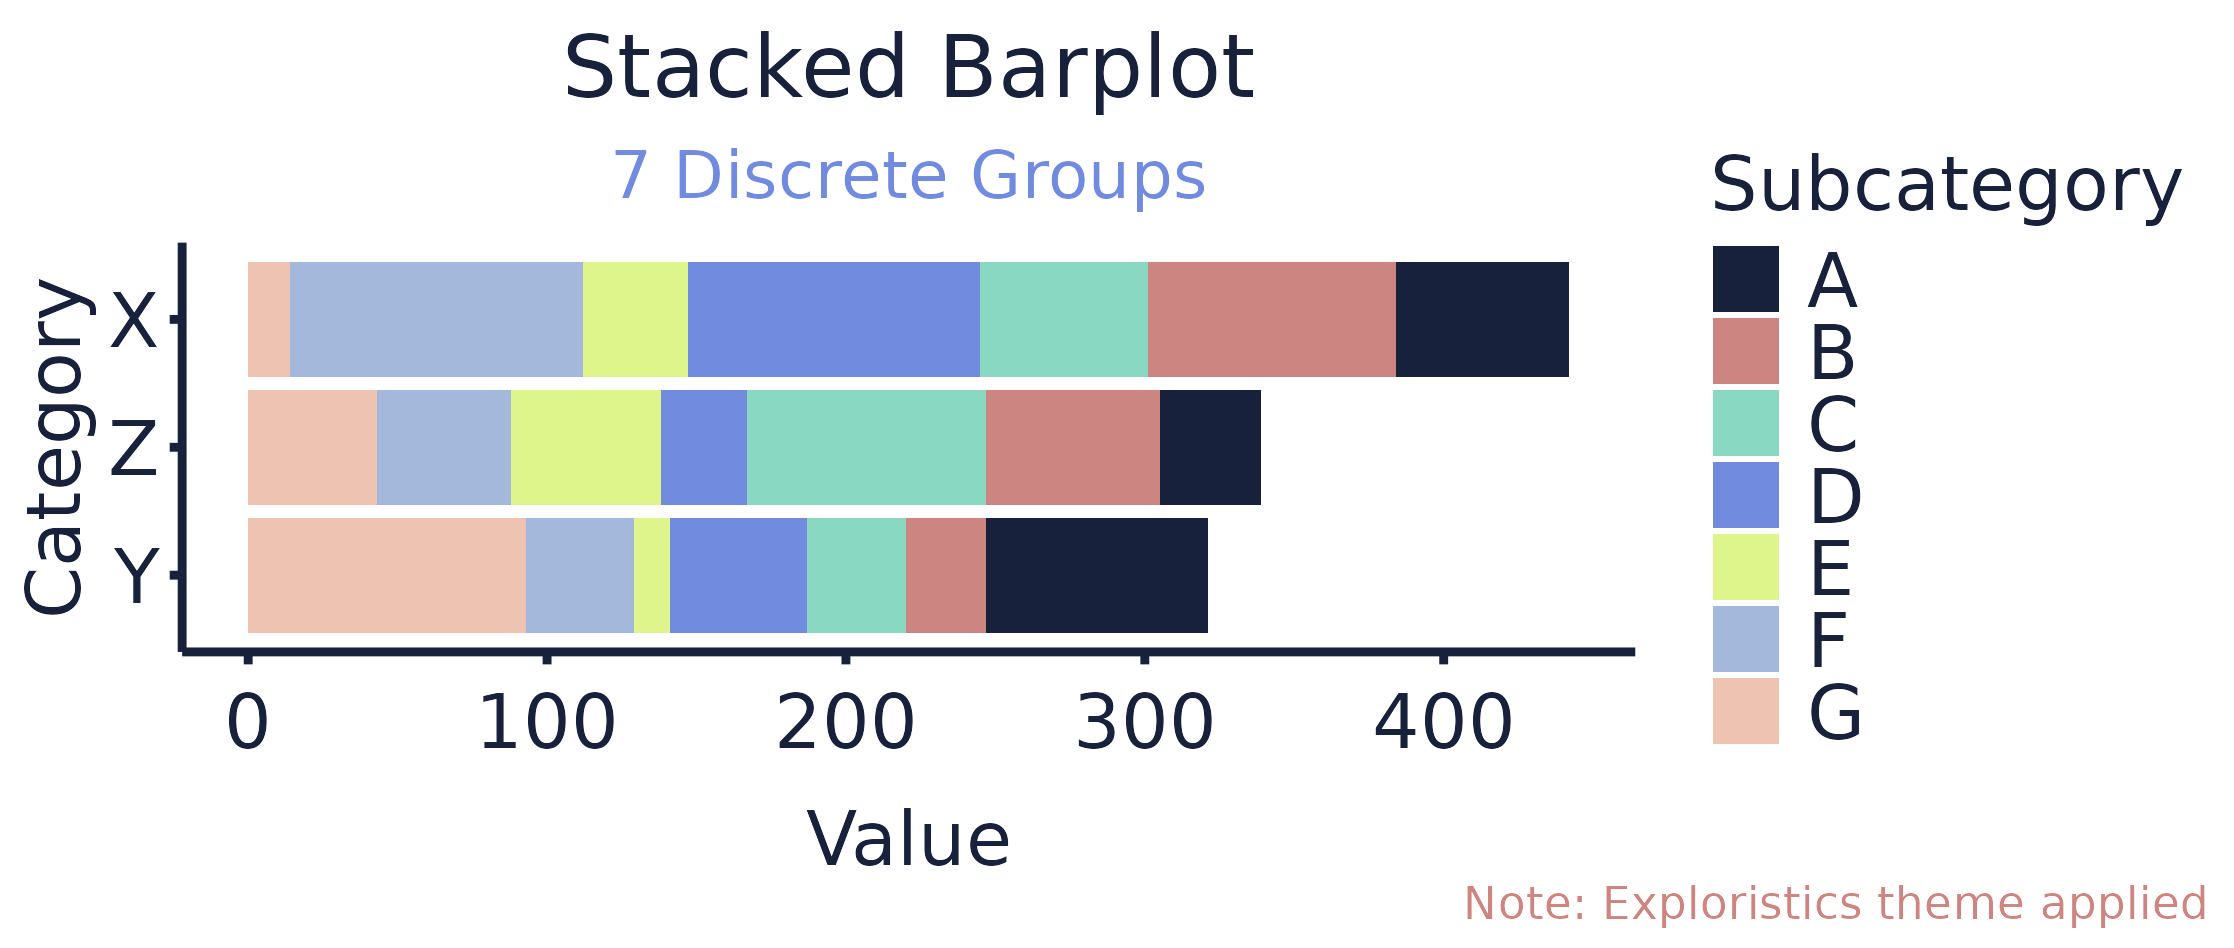
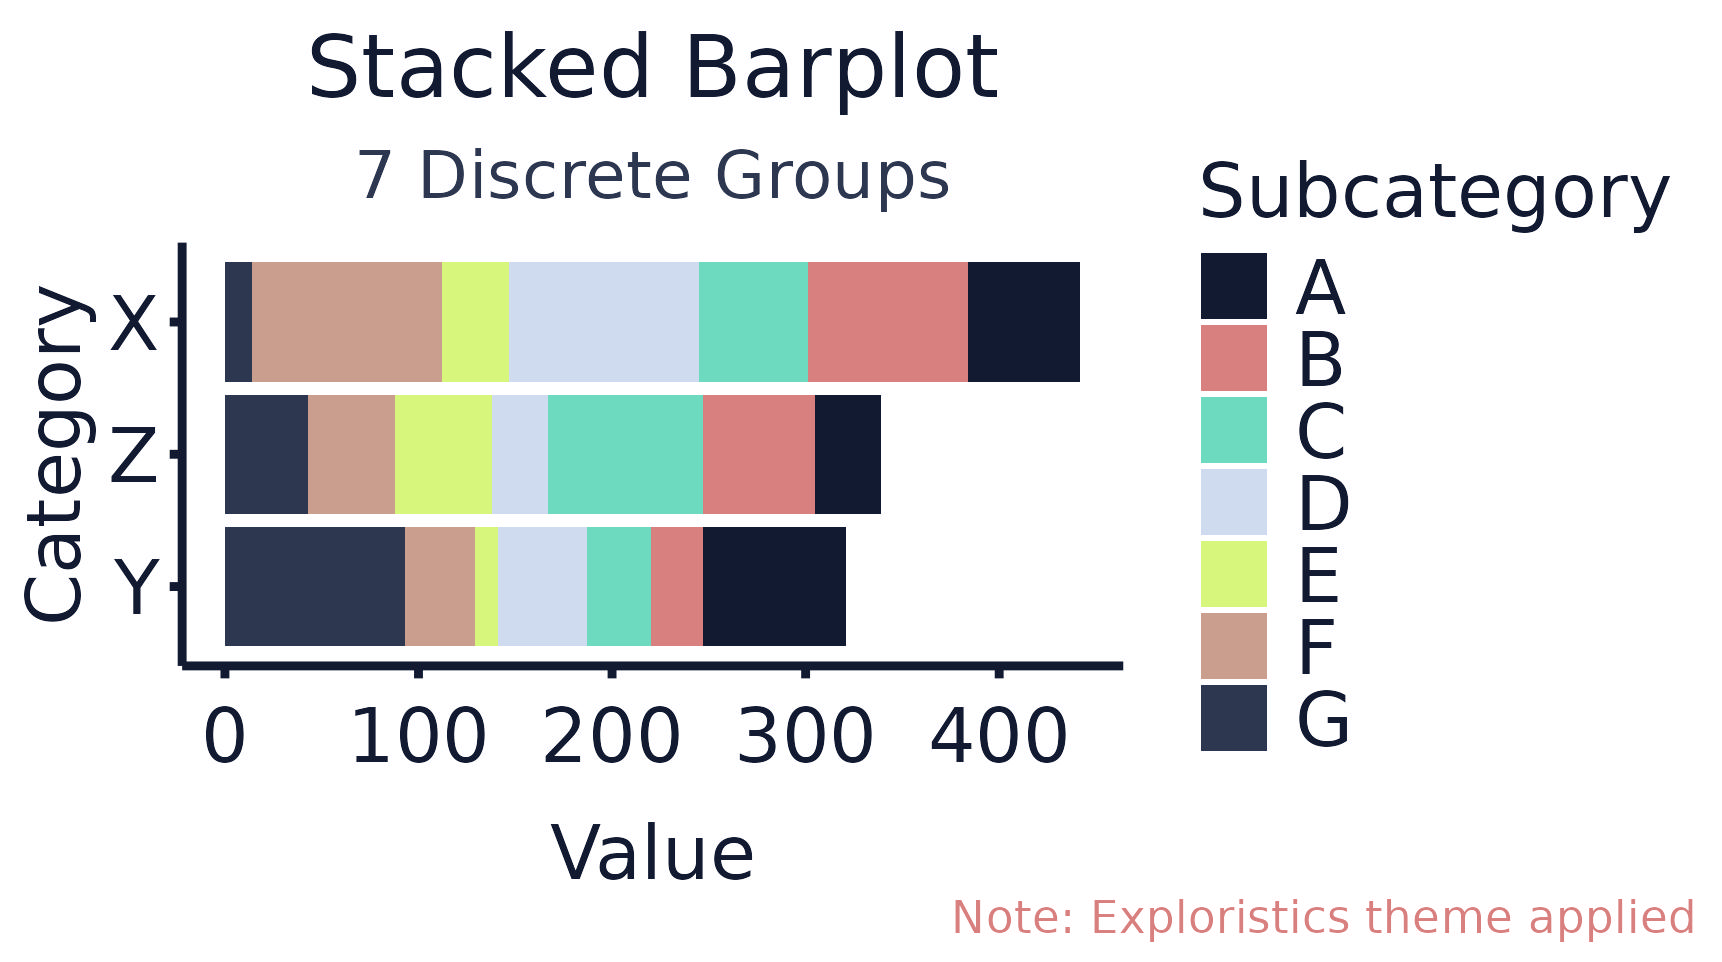
Release 2 (#18)
* doc(NAMESPACE): Updating NAMESPACE file

* doc(README): Updating Readme

* chore(docs): Adding buildignore file

* docs(Figures): Recompiling figures

* docs(Readme): Updating Readme

* docs(): Recompile

* data(): Updating Package Data

* feat(): New Colours

diff --git a/README.md b/README.md
@@ -1,7 +1,7 @@
 
 <!-- README.md is generated from README.Rmd. Please edit that file -->
 
-# ExploristicsTheme <img src="man/figures/logo.png" align="right" height="200" style="float:right; height:200px;"/>
+# ExploristicsTheme <img src="man/figures/hex-ExploristicsTheme.png" align="right" height="200" style="float:right; height:200px;"/>
 
 <!-- badges: start -->
 
@@ -9,19 +9,20 @@
 Status](https://www.repostatus.org/badges/latest/active.svg)](https://www.repostatus.org/#active/)
 [![Package
 version](https://img.shields.io/badge/GitHub-2.0.0-orange.svg)](https://github.com/Exploristics/ExploristicsTheme)
-[![last_update](https://img.shields.io/badge/last%20update-27/07/2024-blue.svg)](https://github.com/Exploristics/ExploristicsTheme)
+[![last_update](https://img.shields.io/badge/last%20update-17/09/2024-blue.svg)](https://github.com/Exploristics/ExploristicsTheme)
 
 <!-- badges: end -->
 
-A bespoke ggplot2 theme that embodies a company’s brand identity. Using
-this theme not only enhances the visual appeal of plots but also ensures
-consistency across all graphical outputs, reinforcing the brand’s
-presence and professionalism. This theme implements our unique color
-palette, typography, and stylistic elements. By integrating these
-brand-specific features into our data visualizations, we aim to provide
-a cohesive and recognizable look that aligns with our corporate values
-and aesthetic standards, thereby facilitating clearer communication and
-a stronger brand connection with our audience.
+A bespoke ggplot2 theme ultilising the Exploristics brand identity.
+Using this theme not only enhances the visual appeal of plots but also
+ensures consistency across all graphical outputs, reinforcing the
+Exploristics brand presence and professionalism. This theme implements
+the Exploristics unique colour palette, typography, and stylistic
+elements. By integrating these brand-specific features into our data
+visualizations, we aim to provide a cohesive and recognizable look that
+aligns with our corporate values and aesthetic standards, thereby
+facilitating clearer communication and a stronger brand connection with
+our audience.
 
 ## Graph Gallery
 
@@ -90,20 +91,17 @@ visualizations. These palettes are:
 ## Installation
 
 Currently the ExploristicsTheme package is stored on the Exploristics
-GitHub [GitHub repo](https://github.com/Expl-DST). At present the
-repository is a private and requires permission to be granted by a
-member of the Data Science Team.
+GitHub [GitHub repo](https://github.com/Expl-DST).
 
 To install `ExploristicsTheme` package:
 
-1.  Set up a GitHub account: [GitHub Signup](https://github.com/join)
+1.  Install the devtools package
 
-2.  Enable Multi-Factor Authentication: [MFA
-    Guide](https://docs.github.com/en/authentication/securing-your-account-with-two-factor-authentication-2fa/configuring-two-factor-authentication)
+``` r
+install.packages("devtools")
+```
 
-3.  Request access to `ExploristicsTheme` repository.
-
-4.  Run the below code to install latest version of `ExploristicsTheme`
+2.  Run the below code to install latest version of `ExploristicsTheme`
     package.
 
 ``` r

diff --git a/NEWS.md b/NEWS.md
@@ -11,5 +11,5 @@ loads *ExploristicsTheme* package.
 * Vignettes written on installing package, basic usage and advanced functionality
 for users wanting to create bespoke plots.
 * [pkgdown](https://pkgdown.r-lib.org/) website with advanced guide, 
-colour palettes and graph gallery
+colour palettes and graph gallery.
 
